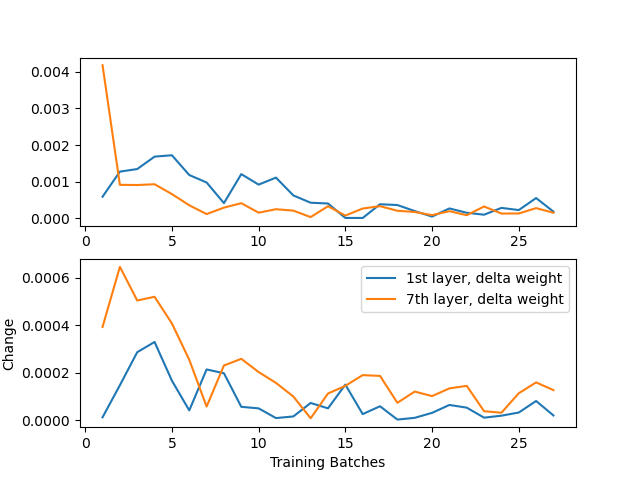
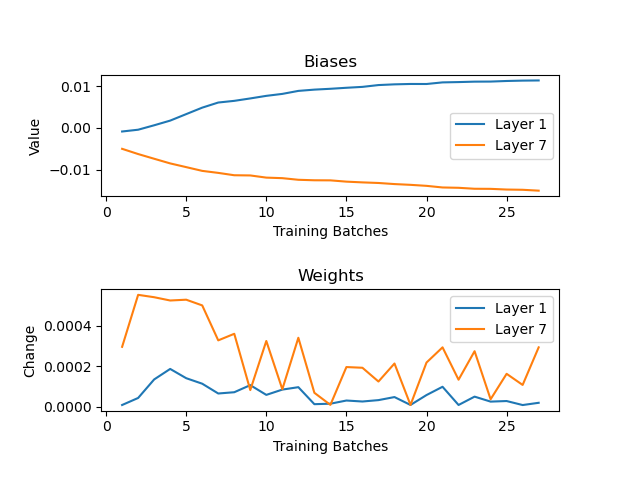
Plotting

diff --git a/Keras_test_NN_1.py b/Keras_test_NN_1.py
@@ -87,8 +87,8 @@ for i in range(len(weights)):
     seventh_layer_avg_biases.append(np.average(epoch[14]))
 
 kernel = [-1, 1]
-first_layer_avg_biases = np.abs(np.convolve(first_layer_avg_biases, kernel))
-seventh_layer_avg_biases = np.abs(np.convolve(seventh_layer_avg_biases, kernel))
+# first_layer_avg_biases = np.abs(np.convolve(first_layer_avg_biases, kernel))
+# seventh_layer_avg_biases = np.abs(np.convolve(seventh_layer_avg_biases, kernel))
 first_layer_avg_weights = np.abs(np.convolve(first_layer_avg_weights, kernel))
 seventh_layer_avg_weights = np.abs(np.convolve(seventh_layer_avg_weights, kernel))
 print(first_layer_avg_biases)
@@ -106,16 +106,23 @@ epochs = range(1, len(loss) + 1)
 x = []
 for i in range(len(first_layer_avg_weights)-1):
     x.append(i+1)
+
 plt.subplot(2, 1, 1)
-plt.plot(x, first_layer_avg_biases[:-1], label='1st layer, delta biases')
-plt.plot(x, seventh_layer_avg_biases[:-1], label='7th layer, delta biases')
+plt.tight_layout(pad=5.0)
+plt.plot(x, first_layer_avg_biases, label='Layer 1')
+plt.plot(x, seventh_layer_avg_biases, label='Layer 7')
+plt.title('Biases')
+plt.xlabel('Training Batches')
+plt.ylabel('Value')
+plt.legend()
 
 plt.subplot(2, 1, 2)
-plt.plot(x, first_layer_avg_weights[:-1], label='1st layer, delta weight')
-plt.plot(x, seventh_layer_avg_weights[:-1], label='7th layer, delta weight')
-# plt.title('Change in Weights')
+plt.plot(x, first_layer_avg_weights[:-1], label='Layer 1')
+plt.plot(x, seventh_layer_avg_weights[:-1], label='Layer 7')
+plt.title('Weights')
 plt.xlabel('Training Batches')
 plt.ylabel('Change')
 plt.legend()
+
 plt.savefig('Change_in_weights.png')
 plt.show()
